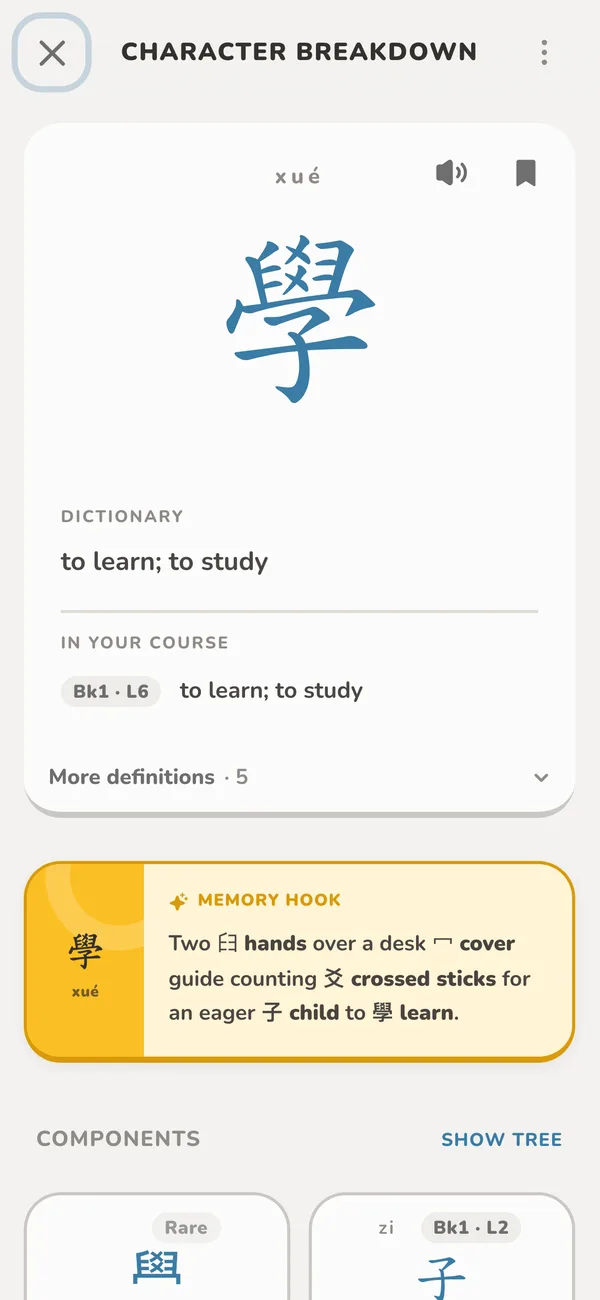
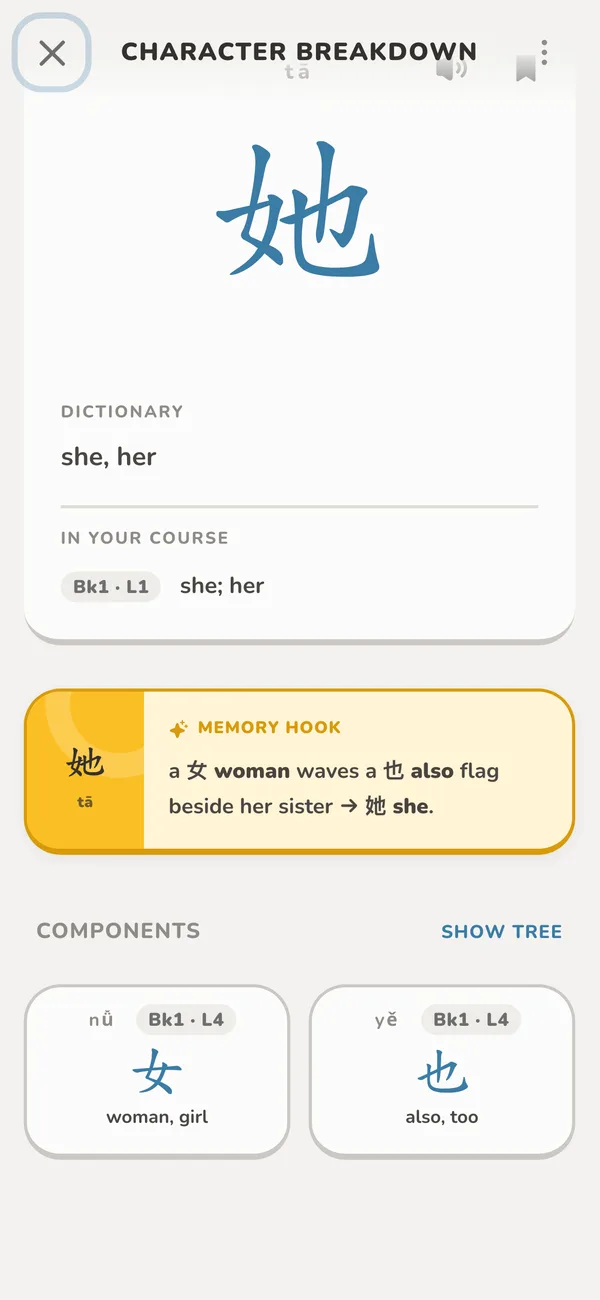
feat(landing): memory hook shot shows the parts (她 = 女 + 也)

diff --git a/src/screens/landing/components/PhoneShot.tsx b/src/screens/landing/components/PhoneShot.tsx
@@ -5,7 +5,7 @@ const nianCompositeShot = new URL('../../../assets/images/landing/phone-nian-com
 /** Real app screenshots (390×844 phone, light), one per headline feature. */
 export const PHONE_SHOTS = [
   { src: new URL('../../../assets/images/landing/phone-read.webp', import.meta.url).href, label: 'Read along with the audio', alt: 'Book 1 Lesson 1 dialogue playing, with 同學 lit up as it is spoken' },
-  { src: new URL('../../../assets/images/landing/phone-hook.webp', import.meta.url).href, label: 'Memory hooks', alt: 'Character breakdown of 學 with its memory hook' },
+  { src: new URL('../../../assets/images/landing/phone-hook.webp', import.meta.url).href, label: 'Memory hooks', alt: 'Character breakdown of 她: its memory hook and its parts 女 and 也' },
   { src: new URL('../../../assets/images/landing/phone-test.webp', import.meta.url).href, label: 'TOCFL mock tests', alt: 'Lesson 1 mock test: TOCFL Band A, 20 questions' },
   { src: new URL('../../../assets/images/landing/phone-card.webp', import.meta.url).href, label: 'Flashcards', alt: 'Flashcard for 貼紙' },
 ];
